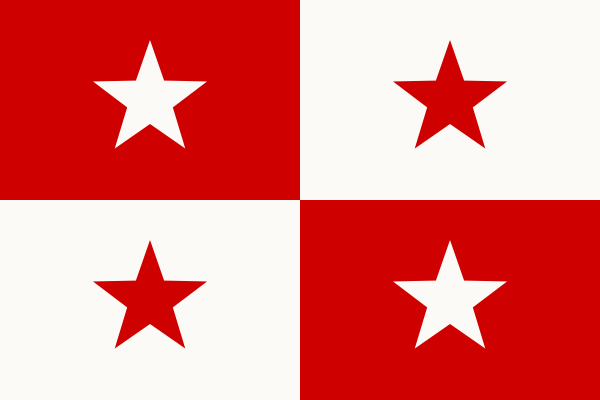
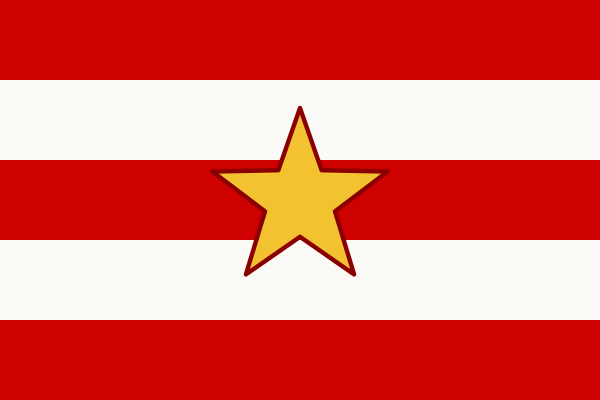
Czechy rewolucyjne: poziome pasy i złota gwiazda
Claude-Session: https://claude.ai/code/session_01PNyJEgjZDVeUSFrp2WbnmN

diff --git a/gfx_koncepty/flagi_czechy/generuj_flagi.py b/gfx_koncepty/flagi_czechy/generuj_flagi.py
@@ -33,8 +33,8 @@ F={
  # Teokracja husycka (Praga, kolebka Husa): szachownica z lwami na czerwieni, a zamiast orła biały kielich na czerni
  '3_teokracja': svg(kwadraty()+lew(75,50,84)+lew(225,150,84)+f'<rect x="150" width="150" height="100" fill="{BLACK}"/><rect y="100" width="150" height="100" fill="{BLACK}"/>'
                     +chalice(225,50,44,WHITE)+chalice(75,150,44,WHITE)),
- # Czechy rewolucyjne: czerwień i biel w szachownicę, białe gwiazdy na czerwonych polach
- '4_rewolucja': svg(kwadraty()+star(75,50,30,WHITE)+star(225,150,30,WHITE)+star(225,50,30,RED)+star(75,150,30,RED)),
+ # Czechy rewolucyjne: pięć poziomych pasów czerwono-białych, złota gwiazda na środku
+ '4_rewolucja': svg(''.join(f'<rect y="{i*40}" width="300" height="40" fill="{RED if i%2==0 else WHITE}"/>' for i in range(5))+star(150,100,46,'#f2c230').replace('/>',' stroke="#8a0000" stroke-width="2.2" stroke-linejoin="round"/>')),
 }
 for k,v in F.items():
     p=os.path.join(HERE,k+'.svg'); open(p,'w').write(v)

diff --git a/gfx_koncepty/flagi_czechy/README.md b/gfx_koncepty/flagi_czechy/README.md
@@ -9,4 +9,4 @@ Czechy praskich Przemyślidów: husyckie lenno Moraw, rywal Welehradu w koronie 
 | 1_ksiestwo | Księstwo (start, Przemyślidzi): lwy na czerwieni, orły św. Wacława na bieli |
 | 2_republika | Republika: ta sama szachownica, same lwy (orzeł św. Wacława to znak dynastii) |
 | 3_teokracja | Teokracja husycka: lwy na czerwieni, białe pola zamienione na czarne z białym kielichem |
-| 4_rewolucja | Czechy rewolucyjne: szachownica z gwiazdami w kontrbarwach |
+| 4_rewolucja | Czechy rewolucyjne: pięć poziomych pasów czerwono-białych, złota gwiazda na środku |
